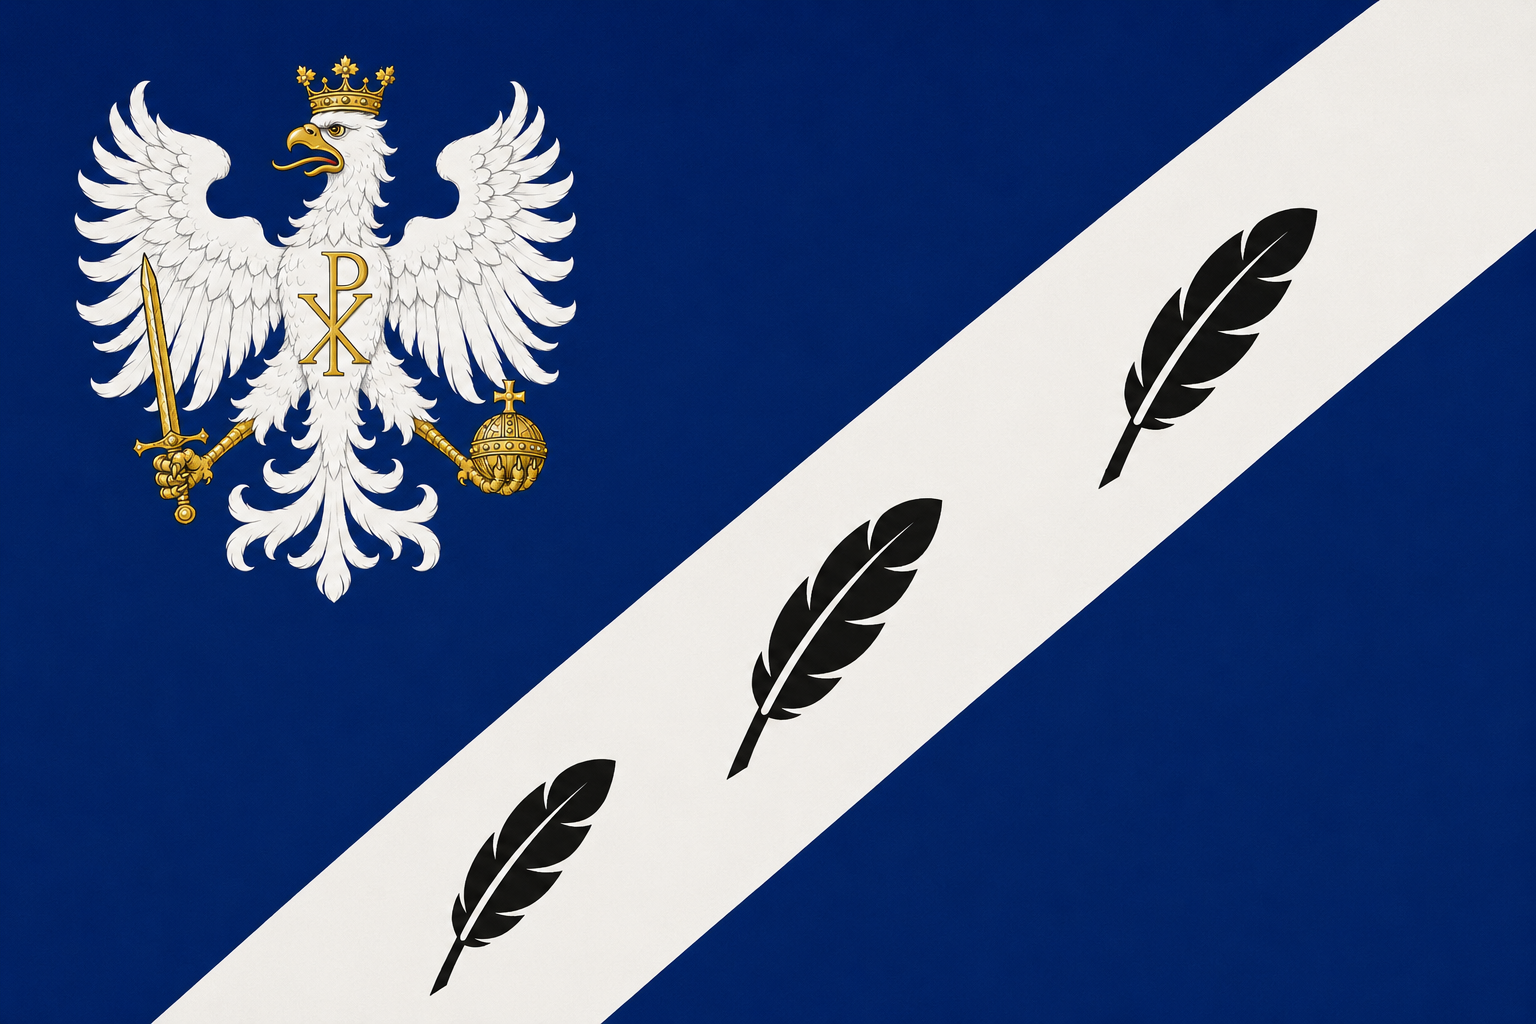
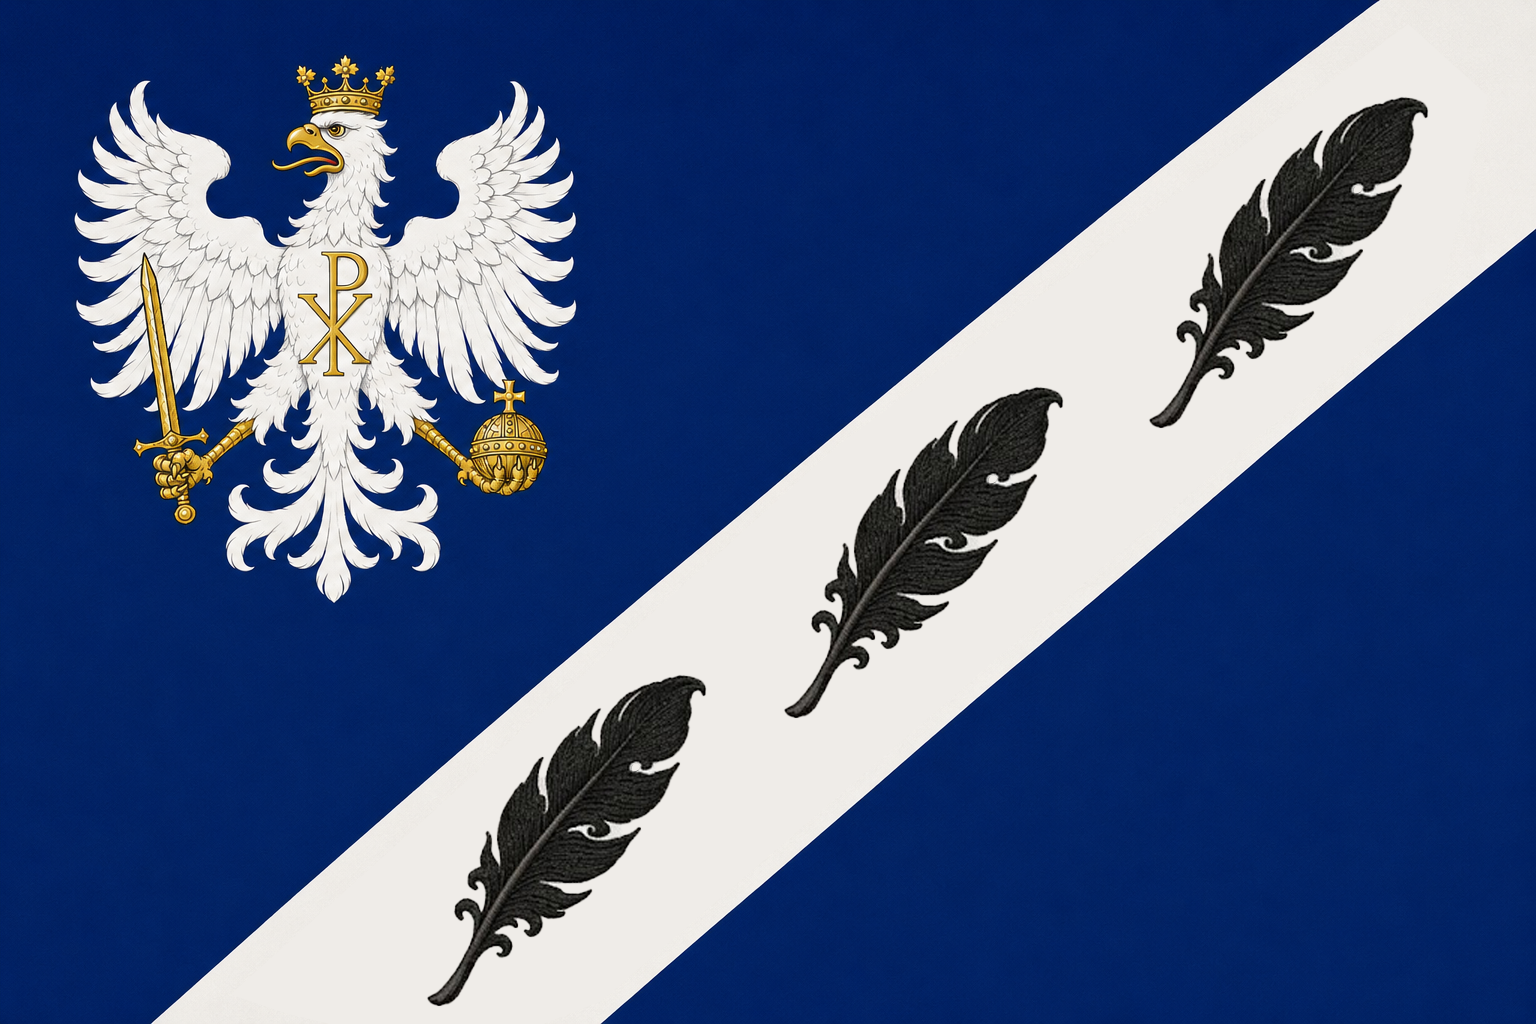
Refine Narvea flag artwork

Changed region(s): [[0.2812, 0.375, 0.6875, 1.0], [0.7188, 0.0938, 0.9375, 0.4688]]

diff --git a/index.html b/index.html
@@ -59,6 +59,15 @@
 
             <div class="date-divider"><span>23 August 2026 · Latest updates</span></div>
 
+            <article class="dispatch reveal" id="update-narvea-flag-artwork-refinement">
+              <div class="dispatch-avatar avatar-green" aria-hidden="true">MP</div>
+              <div class="dispatch-body">
+                <div class="dispatch-author"><strong>World Archive</strong><span>23 Aug 2026 · Flag refinement</span></div>
+                <p>The Duchy of Narvea's national flag artwork received another visual refinement on the interactive country map.</p>
+                <a class="button button-secondary dispatch-button" href="duchy.html#territory">View the updated flag <span aria-hidden="true">→</span></a>
+              </div>
+            </article>
+
             <article class="dispatch reveal" id="update-narvea-strategic-city-ledger">
               <div class="dispatch-avatar avatar-green" aria-hidden="true">MP</div>
               <div class="dispatch-body">
